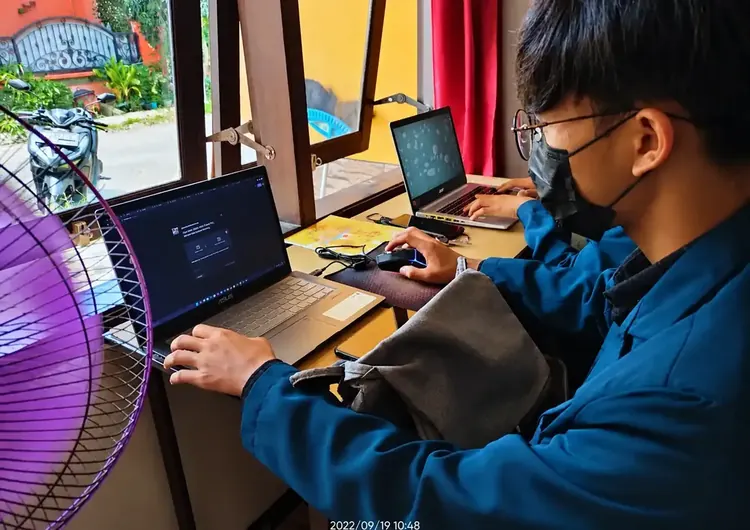
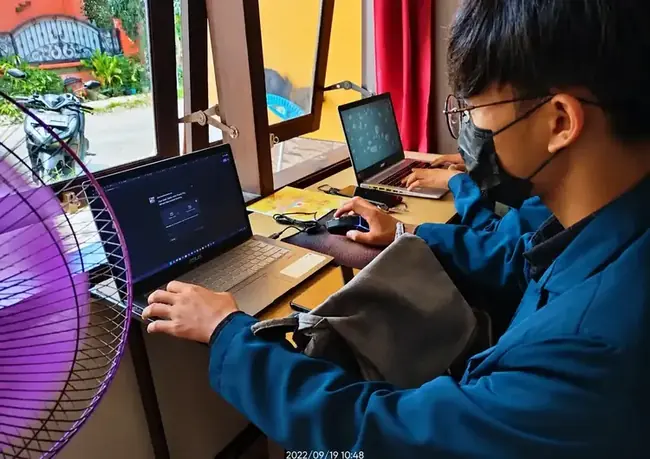
performa

diff --git a/src/styles/global.css b/src/styles/global.css
@@ -1342,7 +1342,16 @@ p {
   padding-top: 1.5rem;
   margin-top: 2.25rem;
   font-size: 0.85rem;
-  color: #6B7280;
+  color: #cbd5e1 !important;
+}
+
+.footer-bottom div,
+.footer-bottom a {
+  color: #cbd5e1 !important;
+}
+
+.footer-bottom a:hover {
+  color: #ffffff !important;
 }
 
 /* Tables (DESIGN.md Bab 6) */
@@ -2468,7 +2477,8 @@ p {
   align-items: center;
   gap: 1.25rem;
   width: max-content;
-  animation: partnerMarqueeScroll 40s linear infinite;
+  animation: partnerMarqueeScroll 65s linear 1.5s infinite;
+  animation-fill-mode: both;
   will-change: transform;
 }
 
